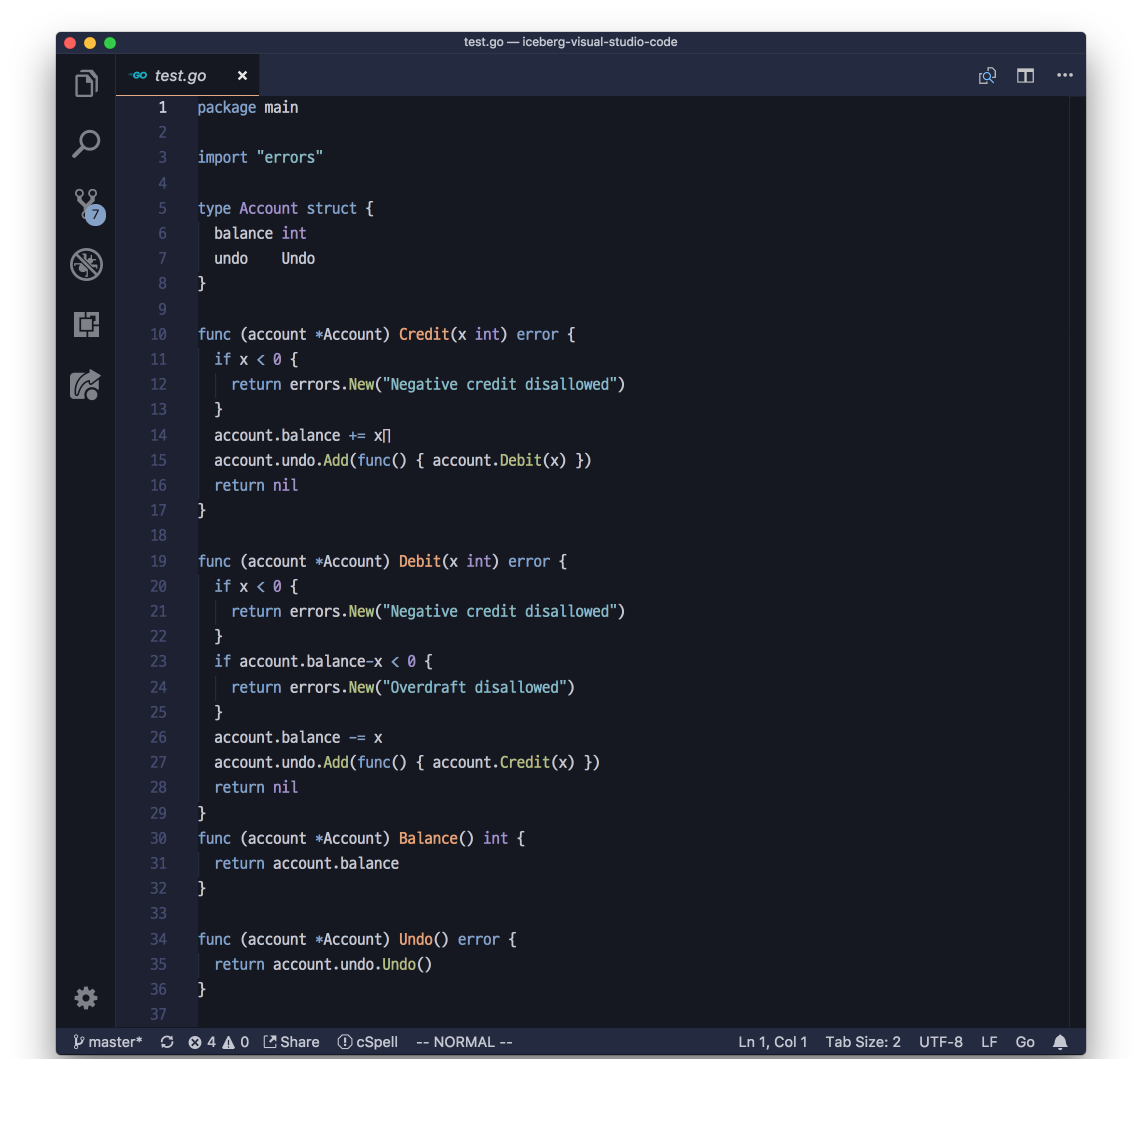
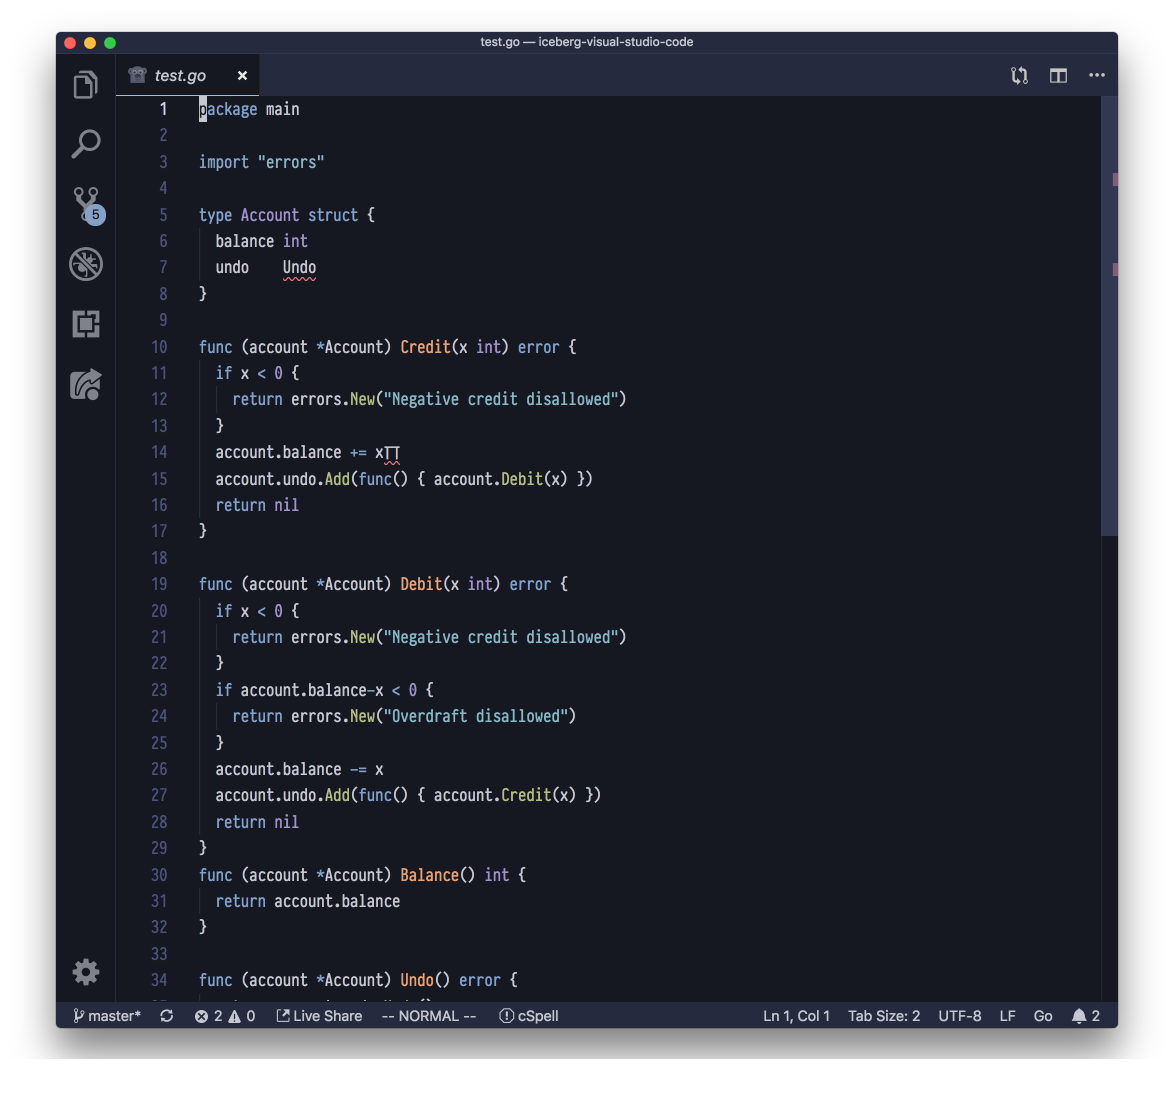
1.2.0

diff --git a/CHANGELOG.md b/CHANGELOG.md
@@ -1,7 +1,9 @@
 # Changelog
 
-## [Unreleased]
-- Make an "original Iceberg" as close as possible to the vim colorscheme
+## [1.2.0] - 2019-05-28
+- tweak some styles : lighten comments and similar items, remove LineNumberGutter background, Menu background
+- fix Terminal bright black
+- fix workbench foreground
 
 ## [1.1.0] - 2018-08-28
 - Add some styles : breadcrumb, editorUnnecessaryCode, list.Error/Warning

diff --git a/README.md b/README.md
@@ -20,6 +20,14 @@
 4. Click **Reload** to reload  your editor
 5. Code > Preferences > Color Theme > **Iceberg**
 
+## Restore gutter background
+
+Add the following line to you `settings.json` :
+
+`"workbench.colorCustomizations": {
+    "editorGutter.background": "#1e2132"
+}`
+
 ## Language preview
 
 ### Python
